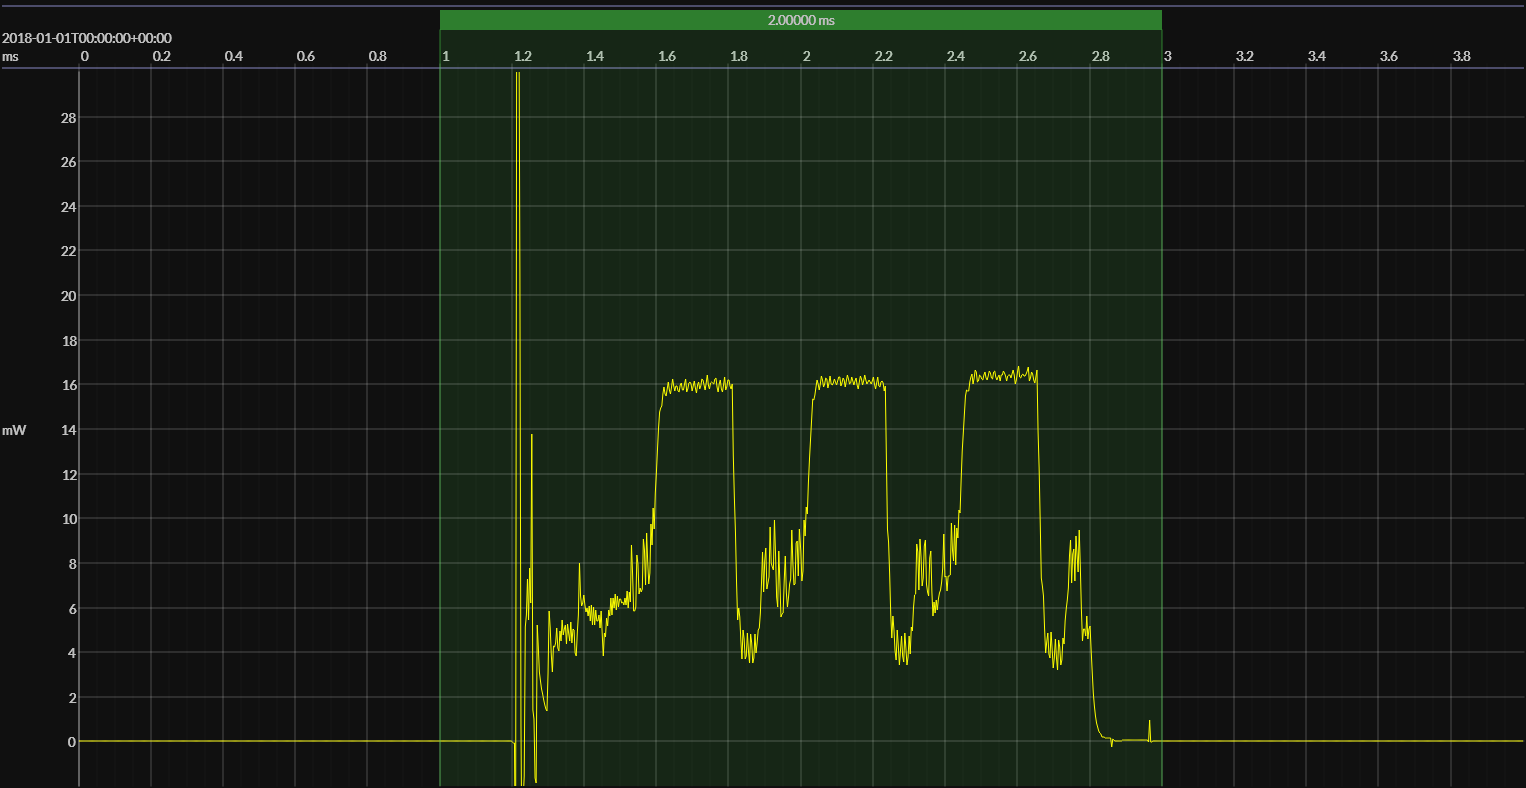
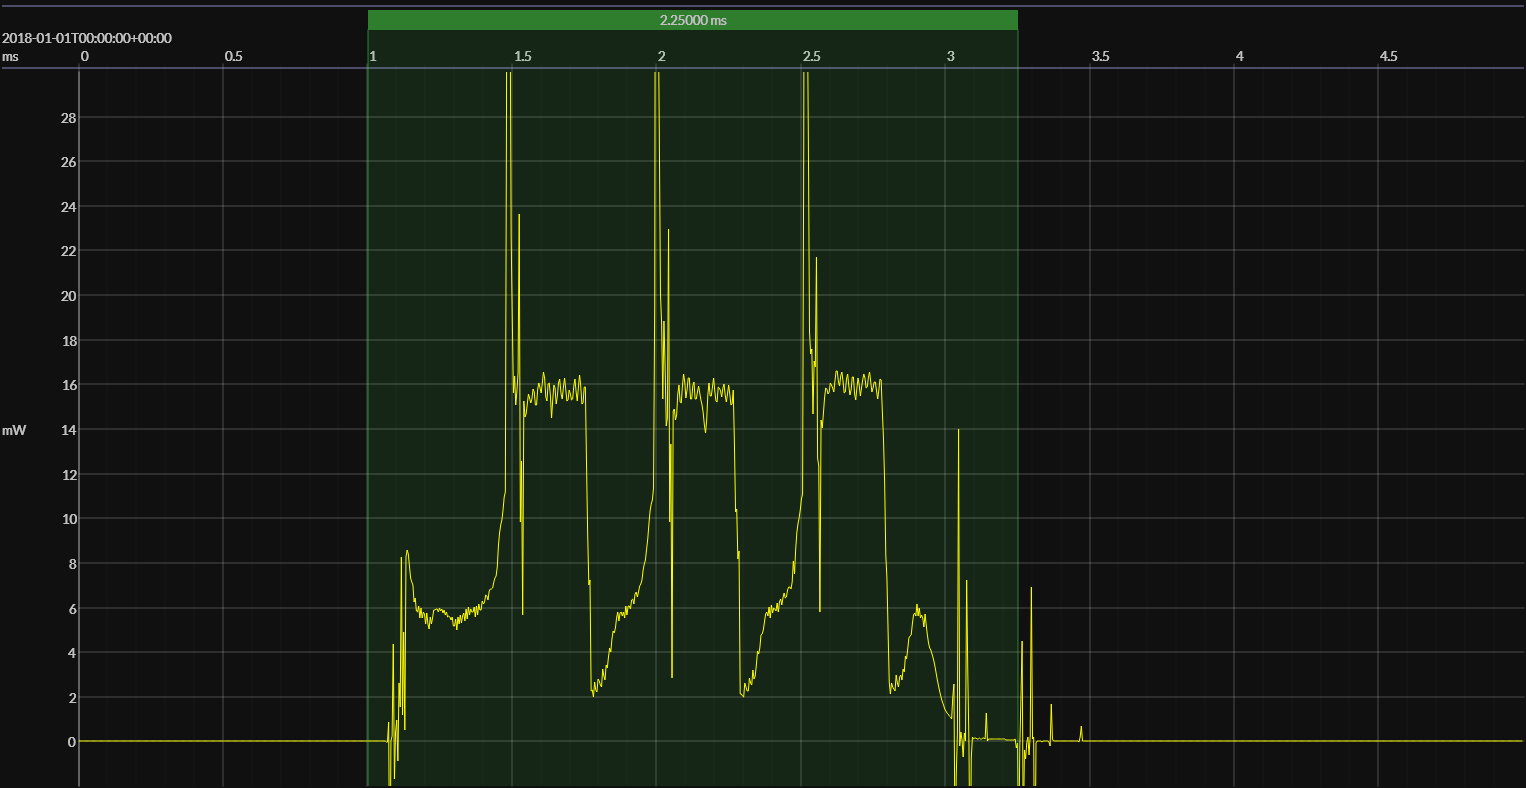
updated capture

diff --git a/captures/js220/ti-23-lp/emscript-2V2/ABOUT.md b/captures/js220/ti-23-lp/emscript-2V2/ABOUT.md
@@ -12,22 +12,22 @@
 
 | supply voltage | &emsp;current (avg)&emsp; | &emsp;current (std)&emsp; | &emsp;average power&emsp;
 |:---:|:---:|:---:|:---:|
-| 2.20 V | 584.799 nA |  18.552 µA |   1.287 µW |
+| 2.20 V | 734.581 nA |   3.766 µA |   1.619 µW |
 
 ### 🟠&ensp;1&thinsp;s event period
 
 | &emsp;&emsp;event energy (avg)&emsp;&emsp; | &emsp;&emsp;energy per period&emsp;&emsp; | &emsp;&emsp;energy per day&emsp;&emsp; | &emsp;&emsp;&emsp;**EM&bull;eralds**&emsp;&emsp;&emsp;
 |:---:|:---:|:---:|:---:|
-|  11.536 µJ |  12.823 µJ |   1.108 J | 72.21 |
+|  20.102 µJ |  21.721 µJ |   1.877 J | 42.63 |
 
 ### 🟠&ensp;10&thinsp;s event period
 
 | &emsp;&emsp;event energy (avg)&emsp;&emsp; | &emsp;&emsp;energy per period&emsp;&emsp; | &emsp;&emsp;energy per day&emsp;&emsp; | &emsp;&emsp;&emsp;**EM&bull;eralds**&emsp;&emsp;&emsp;
 |:---:|:---:|:---:|:---:|
-|  11.536 µJ |  24.409 µJ | 210.893 mJ | 379.34 |
+|  20.102 µJ |  36.288 µJ | 313.532 mJ | 255.16 |
 
 <br>
-<p align="right"><sub>generated at 2025-09-05T23:57:12.035Z</sub></p>
+<p align="right"><sub>generated at 2025-09-16T01:23:53.397Z</sub></p>
     
 
 <!-- @emscope-pack:end -->
